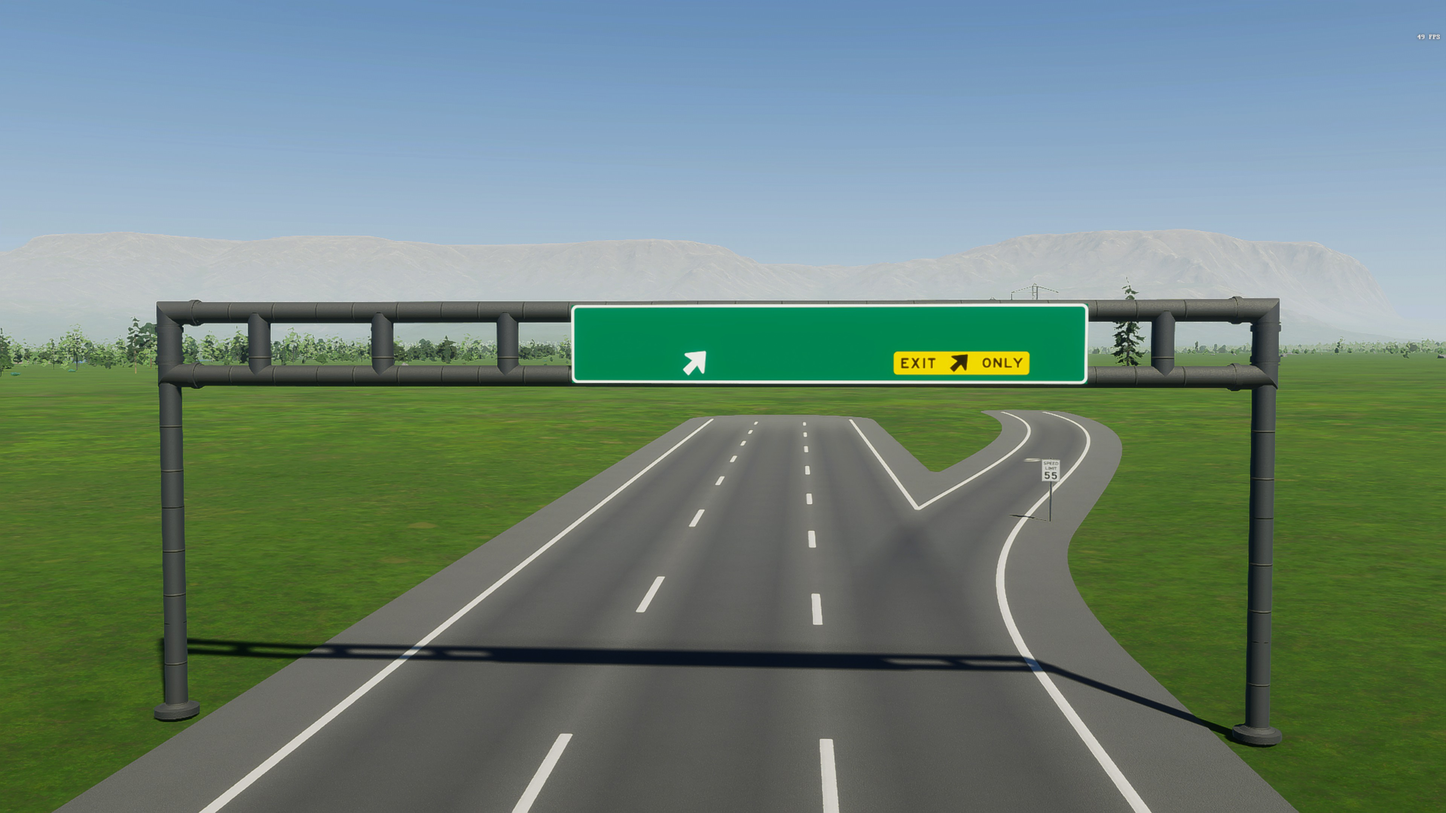
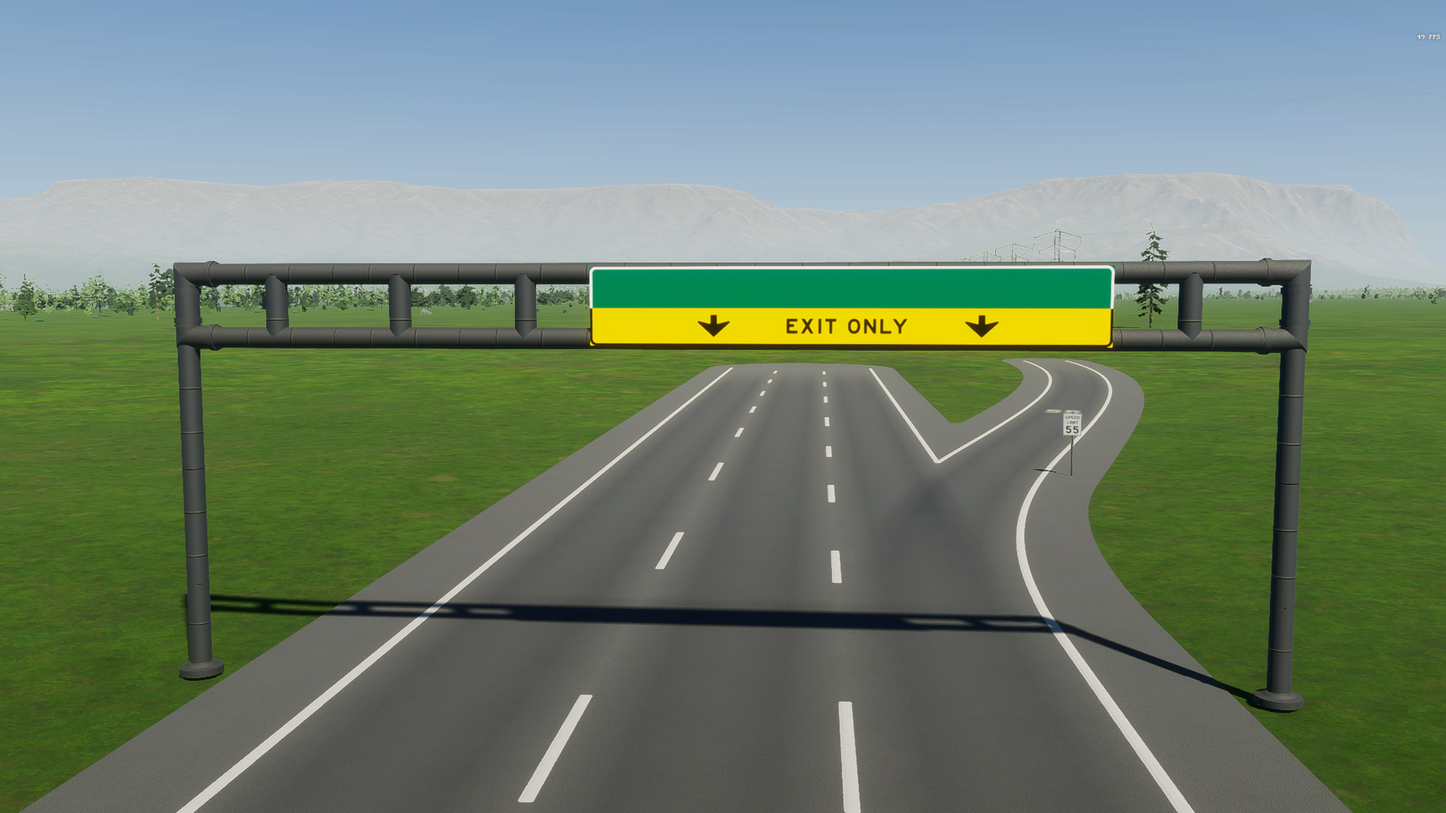
v1.1 Ext1 Atlas pack integration

diff --git a/_BaseModule/README.md b/_BaseModule/README.md
@@ -6,6 +6,7 @@ Hello Cities: Skylines II civil engineers! This is a **Write Everywhere Module**
 
 - 2 Lane (Small) California Highway (Freeway) signs inspired by California's MUTCD
 - 71 total signs (see screenshots)
+- Additional 85 new signs with exit tab style 1 with Ext1 WE atlas pack (with v1.1 update)
 - WE Layout included for easy implementation onto your highways (freeways)
 
 ## How to Use

diff --git a/_BaseModule/changelog.md b/_BaseModule/changelog.md
@@ -1,2 +1,2 @@
-# v1.0.1
-- Added missing 2LS EO, 2LS EO RF1, 2LS O RF1, 2LS OLL, and 2LS ORL signs.
+# v1.1
+- Adds additional 85 new 2LS CA Highway signs with California Exit Tab Style 1 with Ext1 WE atlas pack.
